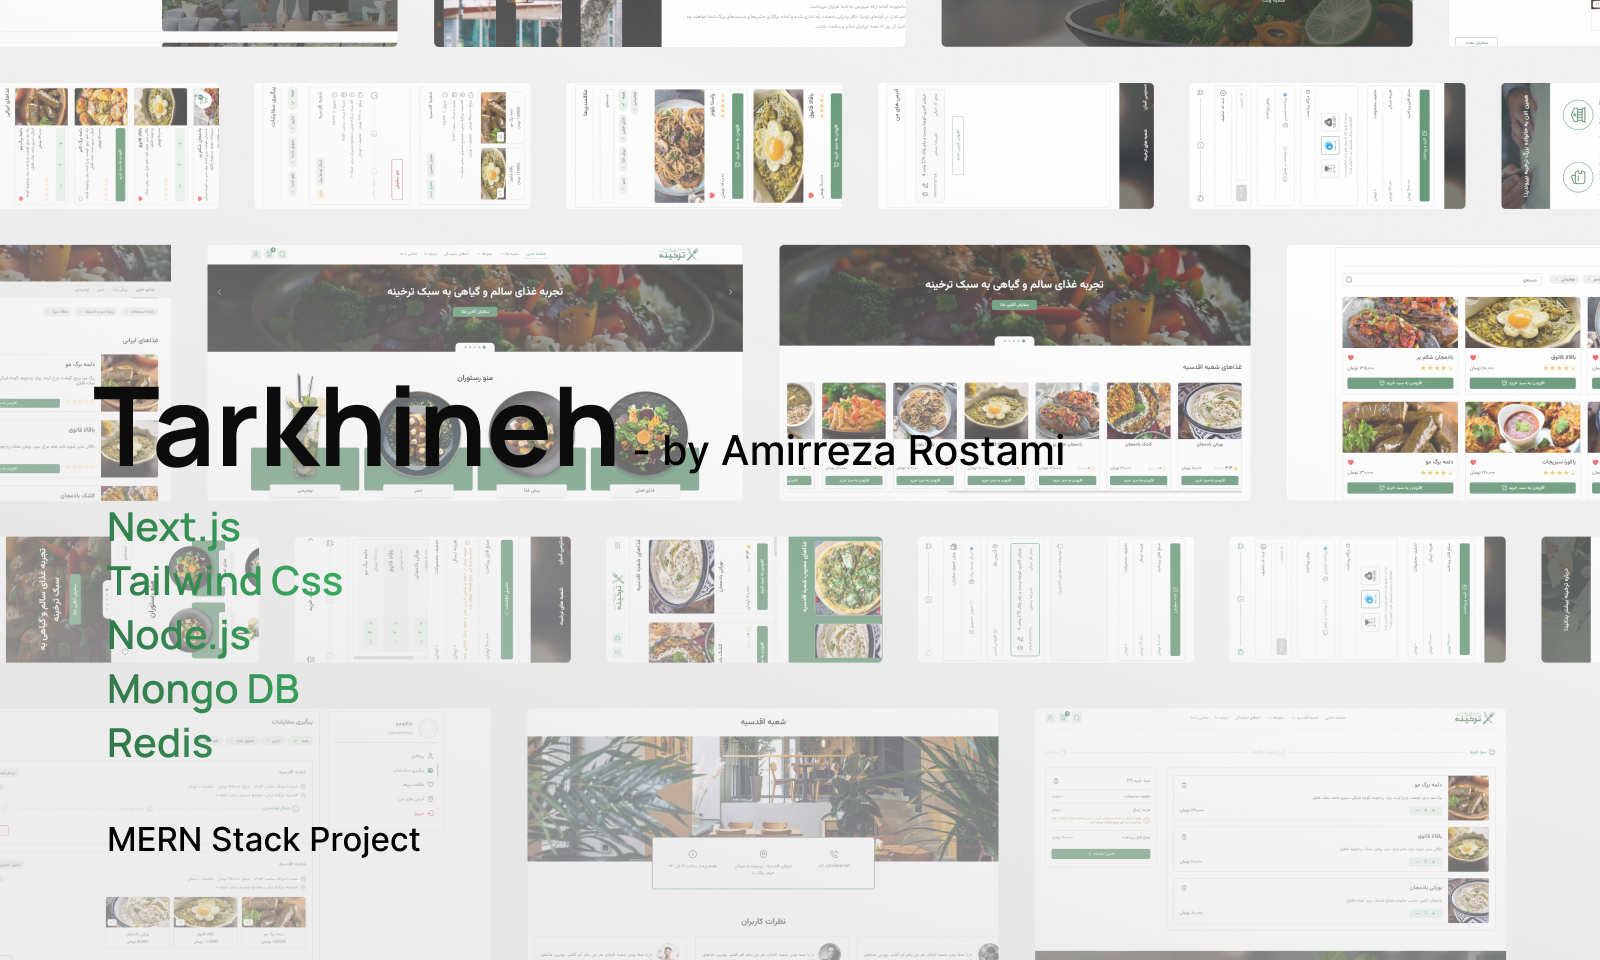
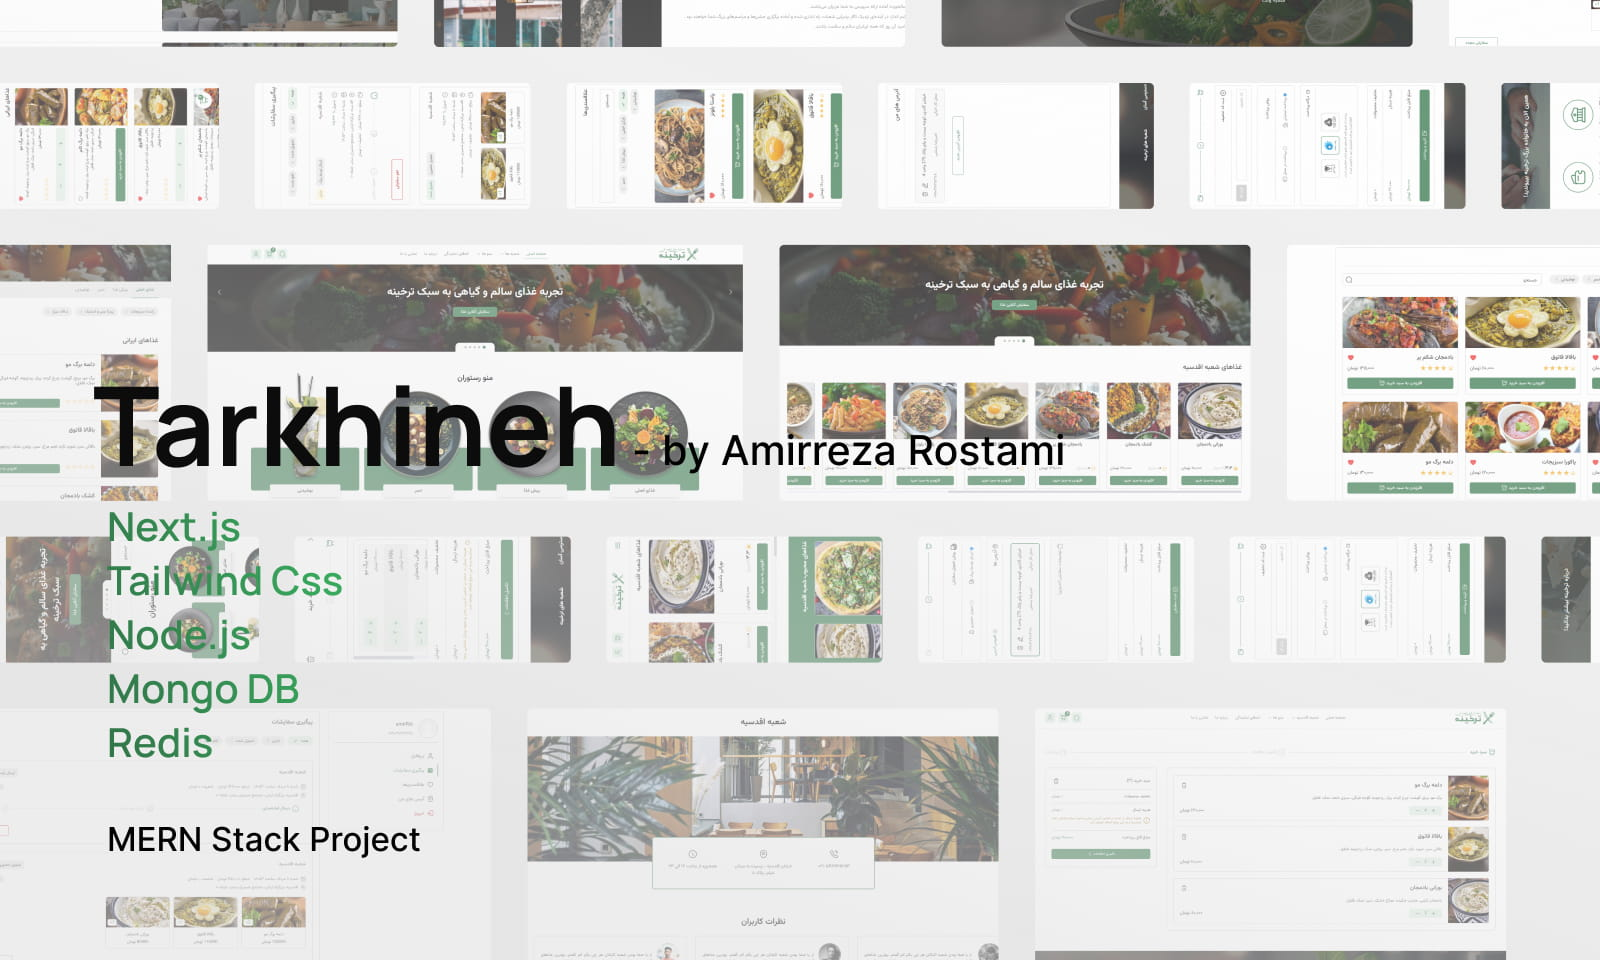
docs: add README.md

Changed region(s): [[0.1875, 0.5938, 0.2188, 0.625]]

diff --git a/README.md b/README.md
@@ -1,0 +1,310 @@
+![Tarkhineh Thumbnail](./frontend/public/github/tarkhine-readme-thumnail.jpg)
+
+# <img src="./frontend/public/images/logo-2.png" alt="Tarkhineh" width="92" height="92"> **Tarkhineh** — Multi-Branch Food Ordering & Reservation Platform
+
+[![GitHub stars](https://img.shields.io/github/stars/amirrezaRst/tarkhineh?style=social)](https://github.com/amirrezaRst/tarkhineh/stargazers)
+[![GitHub forks](https://img.shields.io/github/forks/amirrezaRst/tarkhineh?style=social)](https://github.com/amirrezaRst/tarkhineh/network/members)
+<!-- Optional badges:
+-->
+[![License](https://img.shields.io/badge/License-MIT-green.svg)](./LICENSE)
+[![Last Commit](https://img.shields.io/github/last-commit/amirrezaRst/tarkhineh)](https://github.com/amirrezaRst/tarkhineh)
+
+### Under Ongoing Development (Admin dashboards are in progress)
+
+---
+
+## Table of Contents
+1. [Overview](#overview)
+2. [Highlights](#highlights)
+3. [Key Features](#features)
+4. [Tech Stack](#tech-stack)
+5. [Screenshots](#screenshots)
+6. [Installation](#installation)
+7. [Environment Variables](#environment-variables)
+8. [Database Seeding (Important)](#database-seeding)
+9. [Project Structure](#project-structure)
+10. [Security Notes](#security-notes)
+11. [Contributing](#contributing)
+12. [License](#license)
+13. [Contact](#contact)
+
+---
+
+## Overview <a name="overview"></a>
+
+**Tarkhineh** is a **multi-branch food ordering and reservation platform** for a chain restaurant with **4 branches**, supporting both **online and in-person** orders with **pickup** and **courier delivery**.
+
+The system includes role-specific dashboards for:
+- **Super Admin** (global management)
+- **Branch Manager** (branch-scoped operations)
+- **Branch Couriers** (delivery lifecycle)
+
+A core focus of this project is building a reliable **courier assignment (dispatch) strategy** and enforcing **strict branch-scoped access control** across the system.
+
+---
+
+## Highlights <a name="highlights"></a>
+
+- Built a **multi-branch architecture (4 branches)** with dedicated dashboards for managers and couriers.
+- Implemented the **full order lifecycle**: in-person/online orders → preparation → courier assignment → pickup/delivery.
+- Designed a **smart dispatch strategy** (branch, courier status, workload/capacity, priority).
+- Used **Redis** concepts to optimize dispatch flow and reduce concurrency contention during assignment updates.
+- Implemented **RBAC + branch-scoped authorization** to prevent unauthorized access to orders/admin actions.
+- Hardened backend security with best practices (**Helmet**, input validation, rate limiting, secure headers).
+- Integrated **Zarinpal payment gateway** for checkout.
+
+---
+
+## Key Features <a name="features"></a>
+
+- ✅ Multi-branch ordering (4 branches) + branch-scoped data isolation
+- 🔎 Search & filtering (menu / products)
+- 🛒 Cart & Checkout flow
+- 💳 Zarinpal payment integration
+- 🔐 Authentication with JWT stored in **HttpOnly cookies**
+- 🧭 Role-based access (Super Admin / Branch Manager / Courier)
+- ⚡ SEO & performance optimizations (Next.js)
+- 🧰 Admin dashboards (in progress)
+
+---
+
+## Tech Stack <a name="tech-stack"></a>
+
+### Frontend
+- **Next.js 15**
+- **React 19 (RC)**
+- **Tailwind CSS**
+- **Zustand**
+- **React Hook Form**
+- **React Toastify / SweetAlert2**
+
+### Backend
+- **Node.js**
+- **Express.js**
+- **MongoDB (Mongoose)**
+- **Redis**
+- **JWT Auth (HttpOnly Cookies)**
+- **Joi Validation**
+- **Multer + Sharp** (uploads & image processing)
+- **node-cron** (scheduled jobs)
+- **Zarinpal (Checkout/Pay)**
+
+---
+
+## Screenshots <a name="screenshots"></a>
+
+![Tarkhineh Desktop](./frontend/public/github/tarkhineh-project-fullpage.jpg)
+![Tarkhineh Mobile](./frontend/public/github/tarkhineh-project-mobile.jpg)
+
+<!-- 
+> Live Demo: **TBA** (add your deployment link here) 
+-->
+
+---
+
+## Installation <a name="installation"></a>
+
+This repository contains two separate apps:
+
+- `backend/` (Express + MongoDB)
+- `frontend/` (Next.js 15)
+
+### Prerequisites
+- Node.js **>= 18** (recommended)
+- MongoDB (local or Atlas)
+- Redis (local or cloud)
+
+### 1) Clone
+```bash
+git clone https://github.com/amirrezaRst/tarkhineh.git
+cd tarkhineh
+```
+
+### 2) Backend Setup
+```bash
+cd backend
+npm install
+```
+
+Create `backend/.env` (see [Environment Variables](#environment-variables))
+
+Run backend (dev):
+```bash
+npm run dev
+```
+
+Run backend (prod):
+```bash
+npm run start
+```
+
+Backend default:
+- `http://localhost:5000`
+
+### 3) Frontend Setup
+```bash
+cd ../frontend
+npm install
+```
+
+Create `frontend/.env.local` (see [Environment Variables](#environment-variables))
+
+Run frontend (dev):
+```bash
+npm run dev
+```
+
+Build frontend:
+```bash
+npm run build
+```
+
+Run frontend (prod):
+```bash
+npm run start
+```
+
+Frontend default:
+- `http://localhost:3000`
+
+---
+
+## Environment Variables <a name="environment-variables"></a>
+<!-- 
+> Best practice: add these files to your repo:
+- `backend/.env.example`
+- `frontend/.env.local.example`
+-->
+
+### Backend: `backend/.env`
+Below is a **template**. Replace variable names with the exact ones used in your codebase if they differ.
+
+```env
+NODE_ENV=development
+PORT=5000
+
+# Mongo
+MONGO_URI=mongodb://127.0.0.1:27017/tarkhineh
+
+# Redis
+REDIS_URL=redis://localhost:6379
+
+# Auth (JWT)
+JWT_SECRET=your_access_secret
+REFRESH_TOKEN_SECRET=your_refresh_token
+
+# Cookies / Security
+COOKIE_SECRET=your_cookie_secret
+FRONT_ADDRESS=http://localhost:3000
+
+# Zarinpal
+ZARINPAL_MERCHANT_ID=xxxxxxxx-xxxx-xxxx-xxxx-xxxxxxxxxxxx
+ZARINPAL_CALLBACK_URL=http://localhost:3000/payment/verify
+
+
+```
+
+### Frontend: `frontend/.env.local`
+```env
+NEXT_PUBLIC_API_URL=http://localhost:5000/api
+NEXT_PUBLIC_IMAGE_URL=http://localhost:5000/public
+NEXT_PUBLIC_BASE_URL=http://localhost:3000/
+```
+
+---
+
+## Database Seeding (Important) <a name="database-seeding"></a>
+
+This project relies on MongoDB content (branches, menus, etc).  
+If you run it with an empty MongoDB, the UI will show no items.
+
+### Run seed (recommended)
+```bash
+cd backend
+npm run seed -- --reset
+```
+
+- `--reset` clears existing documents in Tarkhineh collections first (recommended for local dev).
+- Make sure `MONGO_URI` is set in `backend/.env`.
+
+### What it seeds
+- ✅ 4 branches (each with a manager + menus)
+- ✅ sample menus
+- ✅ sample discount linked to a menu item
+- ✅ sample coupon (`WELCOME10`)
+- ✅ sample cart, order, payment
+- ✅ sample like & review
+- ✅ sample reports
+- ✅ test users for different roles (admin / branch_manager / courier / user)
+
+---
+
+## Project Structure <a name="project-structure"></a>
+
+```txt
+tarkhineh/
+├─ frontend/
+│  ├─ src/
+│  │  ├─ app/
+│  │  ├─ assets/
+│  │  ├─ components/
+│  │  ├─ constant/
+│  │  ├─ hooks/
+│  │  ├─ services/
+│  │  ├─ stores/
+│  │  └─ utils/
+│  ├─ public/
+└─ backend/
+   ├─ config/
+   ├─ controllers/
+   ├─ middleware/
+   ├─ models/
+   ├─ public/
+   ├─ routes/
+   ├─ utils/
+   ├─ validation/
+   ├─ seed/
+   └─ server.js
+```
+
+---
+
+## Security Notes <a name="security-notes"></a>
+
+- Authentication uses **JWT in HttpOnly cookies** (reduces XSS token theft risk compared to localStorage).
+- Authorization is enforced server-side via:
+  - **RBAC** (role checks)
+  - **Branch-scoped** constraints (manager/courier can only access their branch data)
+- Backend hardening includes:
+  - Helmet
+  - Input validation (Joi)
+  - Rate limiting in progress
+  - Secure headers
+
+---
+
+## Contributing <a name="contributing"></a>
+
+Contributions are welcome.
+
+Suggested workflow (you can formalize this in `CONTRIBUTING.md`):
+1. Fork the repo
+2. Create a feature branch: `feat/<short-name>`
+3. Run lint before PR (frontend): `npm run lint`
+4. Submit a PR with a clear description and screenshots if UI-related
+
+> Tip: Add `CONTRIBUTING.md` + PR/Issue templates for a more professional open-source experience.
+
+---
+
+## License <a name="license"></a>
+
+This project is licensed under the **MIT License** — see `LICENSE`.
+
+---
+
+## Contact <a name="contact"></a>
+
+- 📧 Email: [amirreza.rostami.0073@gmail.com](mailto:amirreza.rostami.0073@gmail.com)
+- 🌐 Website: [https://arostami.dev/en](https://arostami.dev/en)
+- 💼 LinkedIn: [LinkedIn Profile Address](https://www.linkedin.com/in/amirreza--rostami/)
